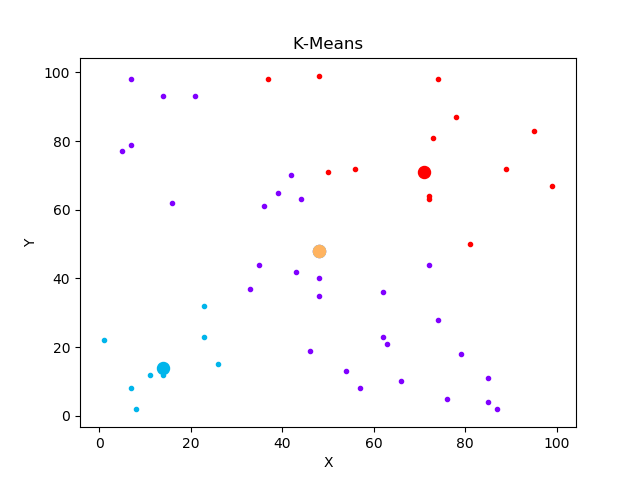
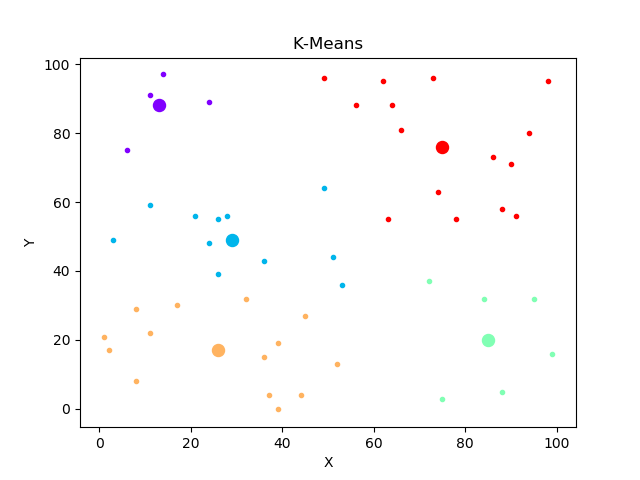
bugfix

diff --git a/k_means.py b/k_means.py
@@ -38,8 +38,8 @@ class KMeans:
         """
         Generates sample data assings to self.X
         """
-        r = lambda: np.random.randint(1, 100)
-        self.X = [[r(), r()] for _ in range(50)]
+        r = lambda x, y: np.random.randint(x, y)
+        self.X = [[r(0, 100), r(0, 100)] for _ in range(50)]
         return self.X
 
 
@@ -73,7 +73,7 @@ class KMeans:
         for centroid in self.centroids:
             centroid.previous_points = centroid.points
             x_cor = [x[0] for x in centroid.points]
-            y_cor = [y[0] for y in centroid.points]
+            y_cor = [y[1] for y in centroid.points]
             try:
                 centroid.pos[0] = sum(x_cor)/len(x_cor)
                 centroid.pos[1] = sum(y_cor)/len(y_cor)
